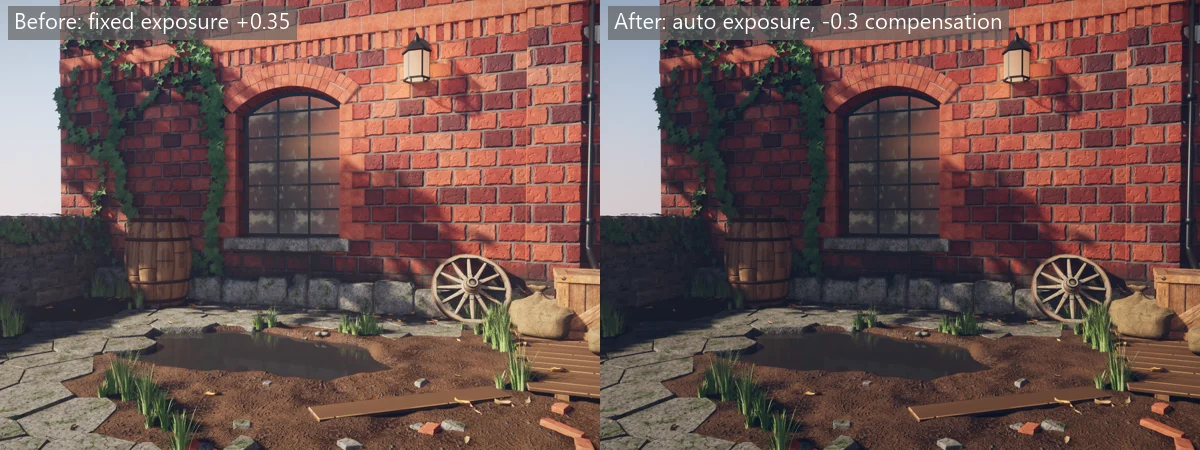
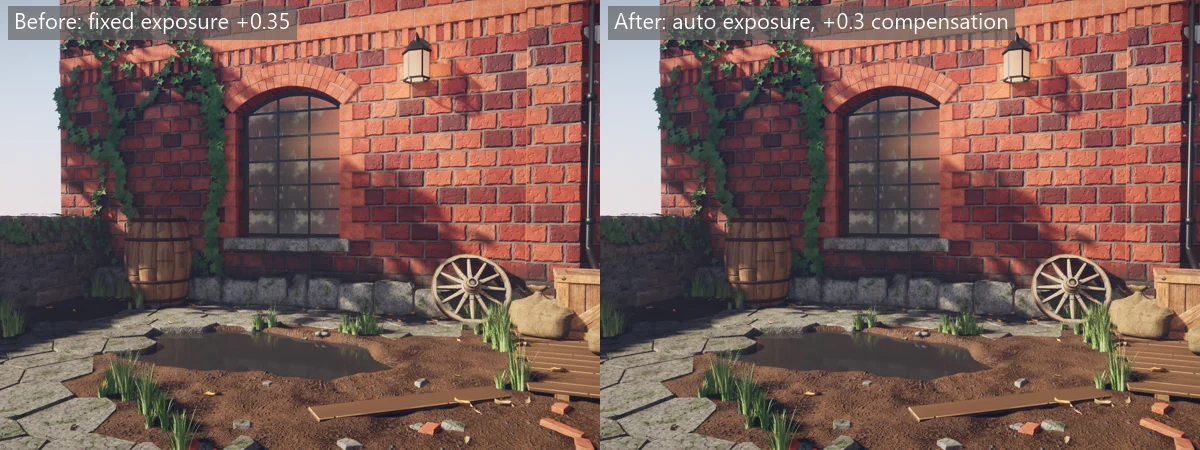
fix: courtyard keeps its brightness under auto exposure and bad speeds fall back to the default
The Courtyard now asks for +0.3 of compensation, which meters to the old
+0.35 look. Exposure.Speed turns a negative, NaN or infinite speed into
the default, so Rendition used without a view never gives the adapt
shader a negative step. The roadmap lists the meter's gaps.

diff --git a/src/Rendition/Passes/Exposure.cs b/src/Rendition/Passes/Exposure.cs
@@ -108,8 +108,14 @@ internal static class Exposure
         return current + Math.Clamp(target - current, -step, step);
     }
 
-    /// <summary>The adaptation speed for a <see cref="PostSettings.AdaptationSpeed"/>, where 0 means the default.</summary>
-    public static float Speed(float requested) => requested == 0f ? DefaultSpeed : requested;
+    /// <summary>
+    /// The adaptation speed for a <see cref="PostSettings.AdaptationSpeed"/>: 0 means the default, and so
+    /// does anything that isn't a finite speed above 0. Super's View refuses those, but Rendition can be
+    /// used alone, and a negative speed would reach exposure_adapt.comp as a negative step, which flips
+    /// its clamp and throws the exposure the wrong way. What comes out is always one <see cref="Adapt"/> takes.
+    /// </summary>
+    public static float Speed(float requested) =>
+        float.IsFinite(requested) && requested > 0f ? requested : DefaultSpeed;
 
     /// <summary>
     /// The switches the shaders see: <paramref name="off"/>, plus <see cref="RenderEffects.AutoExposure"/>

diff --git a/examples/Courtyard/CourtyardGame.cs b/examples/Courtyard/CourtyardGame.cs
@@ -102,13 +102,13 @@ public sealed class CourtyardGame(Content content, Input input, Graphics graphic
         // Someone is home: a warm light in the room, seen through the old glass.
         view.PointLight(RoomKey, RoomLamp, color: new Vector3(2.2f, 1.2f, 0.45f), range: 6f, radius: 0.25f);
 
-        // The camera meters the courtyard and sets the brightness itself, then takes a third of a stop
-        // off so the sunlit wall doesn't wash out. A cool lift in the shade, a touch of warmth in the
-        // light, and a little bloom round the lamp.
+        // The camera meters the courtyard and sets the brightness itself, then adds about a third of a
+        // stop so the shade stays open and the sunlit wall bright. A cool lift in the shade, a touch of
+        // warmth in the light, and a little bloom round the lamp.
         view.Finish(new PostSettings
         {
             AutoExposure = true,
-            Exposure = -0.3f,
+            Exposure = 0.3f,
             Contrast = 0.1f,
             Saturation = 0.05f,
             Vignette = 0.35f,

diff --git a/tests/Super.Tests/ExposureTests.cs b/tests/Super.Tests/ExposureTests.cs
@@ -147,6 +147,24 @@ public class ExposureTests
     }
 
     [Theory]
+    [InlineData(-1f)]
+    [InlineData(float.NaN)]
+    [InlineData(float.NegativeInfinity)]
+    [InlineData(float.PositiveInfinity)]
+    public void A_speed_that_no_view_would_accept_adapts_at_two_stops_a_second_instead(float requested)
+    {
+        // Rendition used without Super's View has nothing refusing these. Each frame's step must stay
+        // a finite number of stops 0 or more: half a second at 2 stops a second is 1.
+        var clock = new ExposureClock();
+        clock.Next(metered: true, time: 1f, speed: Exposure.Speed(requested));
+
+        var step = clock.Next(metered: true, time: 1.5f, speed: Exposure.Speed(requested));
+
+        Assert.Equal(1f, step!.Value.MaxStep, Tolerance);
+        Assert.Equal(1f, Exposure.Adapt(0f, 3f, Exposure.Speed(requested), 0.5f), Tolerance);
+    }
+
+    [Theory]
     [InlineData(true, false, true)]
     [InlineData(true, true, false)]
     [InlineData(false, false, false)]

diff --git a/examples/Courtyard/README.md b/examples/Courtyard/README.md
@@ -54,8 +54,8 @@ so the leaves' shade stays crisp though they are 10 m from the wall. See
 with `Turbidity = 2.5f`: blue overhead, paler at the horizon and bright round the sun's
 disc, so the shade is cooler than the sunlight. See [The sky](../../docs/rendering.md#the-sky). The sun is strong against the sky, so
 the shade is a clear step darker than the light, as on a real clear day. The camera meters
-the courtyard with auto exposure and the finish takes a third of a stop off what it picks, so the
-sunlit wall keeps its colour. See [Auto exposure](../../docs/rendering.md#auto-exposure). The lantern is a point light at its
+the courtyard with auto exposure and the finish adds about a third of a stop to what it picks, so
+the shade stays open and the sunlit wall stays bright. See [Auto exposure](../../docs/rendering.md#auto-exposure). The lantern is a point light at its
 bulb, left on but dim in daylight, that warms the wall just round it. It casts no shadows, since the bulb and
 the lantern round it would hide it. A point light at the back of the room makes the old
 glass glow, as if someone is home. A light finish adds contrast, a cool lift in the shade,
@@ -100,7 +100,7 @@ for a screenshot in clear air:
 dotnet run -c Release --project examples/Courtyard -- --script clear --screenshot shots/courtyard-clear.png --validate --seed 1 --ticks 60 --size 1600x900
 ```
 
-Press E to turn auto exposure off and on. Off, the finish's `Exposure = -0.3f` is a fixed
+Press E to turn auto exposure off and on. Off, the finish's `Exposure = 0.3f` is a fixed
 exposure instead of compensation on what the camera metered. It flips
 [`Graphics.AutoExposure`](../../docs/rendering.md#graphics-settings), and the `fixed` script
 presses E for a screenshot at the fixed exposure:

diff --git a/docs/rendering.md b/docs/rendering.md
@@ -336,14 +336,14 @@ When the scene gets brighter or darker the exposure follows at `AdaptationSpeed`
 the way eyes adjust walking out of a cellar. The first frame starts at the metered brightness,
 not from black, and so does the first after `AutoExposure` or [`Graphics.AutoExposure`](#graphics-settings)
 is turned back on, or after time goes backwards, as when the game restarts. A speed must be above 0, or 0 for the
-default. The meter sees from about 1/256 to 65000 times a white of 1. Anything darker or
+default. A view refuses anything else; Rendition used on its own takes the default instead. The meter sees from about 1/256 to 65000 times a white of 1. Anything darker or
 brighter counts as the darkest or brightest it sees.
 
 Screenshots and recordings step time a tick at a fixed rate, so the same `--seed` and `--ticks`
 give the same exposure and the same picture every run. Reflection and light probes don't
 use it: they hold light, and exposure is applied after lighting.
 
-![The Courtyard with a fixed exposure of +0.35 on the left, and with auto exposure and -0.3 of compensation on the right, about two thirds of a stop darker, with the sunlit wall holding its colour and the shade deeper](media/auto-exposure.webp)
+![The Courtyard with a fixed exposure of +0.35 on the left, and with auto exposure and +0.3 of compensation on the right, which meters it to nearly the same brightness, with the shade open and the sunlit wall bright](media/auto-exposure.webp)
 
 ## The sky
 

diff --git a/docs/design.md b/docs/design.md
@@ -1423,7 +1423,10 @@ from the same buffer as a third descriptor set (`ExposureMeter.Set`) and multipl
 take counts towards the tonemap's in `GpuTimer`.
 
 The CPU only keeps time (`ExposureClock`). The step is `AdaptationSpeed` times the change in
-`FrameView.Time` since the last metered frame. The first metered frame snaps to the target,
+`FrameView.Time` since the last metered frame. `Exposure.Speed` turns a speed of 0, and any
+speed that isn't finite and above 0, into the default of 2, because a negative step would
+flip the shader's clamp. `View.Finish` refuses those instead, so only Rendition used alone
+relies on the fallback. The first metered frame snaps to the target,
 as does the first after metering was off and the first after time went backwards, such as
 a restart. Super's screenshots and recordings step `Time` by a fixed tick and settle at a
 fixed moment, where the step is 0, so the same seed and ticks give the same bytes. The

diff --git a/docs/roadmap.md b/docs/roadmap.md
@@ -27,6 +27,11 @@ Super is early. These are the known gaps, so you can plan around them.
 - **Local lights in reflections.** [Reflection probes](rendering.md#reflections) are
   photographed by the sun and sky alone, so a lantern or a lit window doesn't show in a
   reflection, and turning one on doesn't photograph the probe again.
+- [Auto exposure](rendering.md#auto-exposure) meters the whole frame, the sky included,
+  with every pixel counted the same, so there is no centre weighting yet. It has no lower
+  or upper limit on where it settles, so a scene meant to be dark is pushed up to middle
+  grey, and it brightens and darkens at the same speed, where an eye opens up more slowly
+  than it closes down.
 - **Large numbers of objects.** Rendition's efficiency with many thousands of objects
   still has to be measured and improved.
 - **Render scale.** [Graphics settings](rendering.md#graphics-settings) turn effects off,
